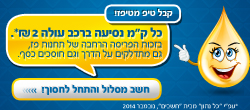
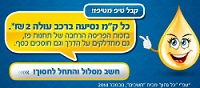
paz home page

diff --git a/paz.css b/paz.css
@@ -36,7 +36,7 @@
 
 .menu1, .menu2, .menu3, .menu4, .menu5,
 .menu6, .menu7 {
-    font-size: 12px;
+    font-size: 16px;
     padding: 8px;
     color: white;
     text-decoration: none;
@@ -95,7 +95,7 @@
      
   #paz {
       position: absolute;
-      top: 32px;
+      top: 40px;
       right: 50px;
   }
   
@@ -138,83 +138,79 @@
     position: absolute;
     border-bottom-right-radius: 25px;
     bottom: 25px;
-    right: 20px;
-    left: 24px;
+    right: 40px;
     background: rgb(126, 122, 122);
     opacity: 0.8;
     width: 220px;
     height: 150px;
-    text-align: right;
+    /*text-align: right;*/
    }
    #upMidlePic > div {
     position: absolute;
     border-bottom-right-radius: 25px;
     bottom: 25px;
-    right: 20px;
-    left: 24px;
+    right: 40px;
     background: rgb(126, 122, 122);
     opacity: 0.8;
     width: 220px;
     height: 150px;
-    text-align: right;
+   /* text-align: right;*/
     
    }
    #upRightPic > div {
     position: absolute;
     border-bottom-right-radius: 25px;
     bottom: 25px;
-    right: 20px;
-    left: 24px;
+    right: 40px;
     background: rgb(126, 122, 122);
     opacity: 0.8;
     width: 220px;
     height: 150px;
-    text-align: right;
+   /* text-align: right;*/
    }
    h4 {
+       color: black;
     font-family:Tahoma, Verdana, sans-serif, bold;
-    font-size: 12px; 
+    font-size: 11px; 
     padding: 10px;
     text-align: right;
     margin: 0 20  ;
-    
+    z-index: 1;
 } 
 
 
-#lowerSection {
-  
-    width: 900px;
-   margin: auto;
-    }
+
 .lowerDis {
-   
+   top: 30px;
     background-image: url("cube_bg.png");
     background-repeat: no-repeat;
      position: relative;
     border-top-right-radius: 25px;
-    height: 180px;
-    object-fit: cover;
+    height: 200px;
+    /*object-fit: cover;*/
 }
 
 #downLeftPic {
     float:left;
     width: 33%;
+    position: relative;
    }
 
 
 #downMidlePic {
     float: left;
     width: 33%;
+    position: relative;
 }
 
 #downRightPic {
     float: left;
     width: 33%;
-   
+    position: relative;
 }
 
 footer {
-    display: inline-block;
+   display: inline-block;
     height: 50px;
     color: white;
     background: rgb(144,144,144);
@@ -225,35 +221,80 @@ footer {
     position: relative
        }
 #downLeft {
+    position: absolute;
+    top: 25;
+    left:5px;
     
-    
-padding-left: 5px;
-padding-bottom: 25px;
-
 }
 
 #downMidle {
-    width: 220px;
-    height: 89px;
-    margin-top: 15px;
-    margin-left: 30px;
-  
+    position: absolute;
+    top: 50px;
+    left:45px;
 }
 #downRight {
-    width: 220px;
-    height: 89px;
-    margin-top: 15px;
-    margin-left: 30px;
+    position: absolute;
+    top: 50px;
+    left:45px;
  }
 .downSecLink {
+    position: absolute;
     color: black;
-    margin-left: 5px;
-    margin-bottom: 0;
+    right: 45px;
+    bottom: 40px;
+}
+#northLink, #centerLink, #southLink {
+    color:black;
+    position: absolute;
+    right: 25px;
+}
+#northLink { top: 50px;}
+#centerLink { top: 75px;}
+#southLink { top: 100px;}
+
+.more1:hover .moreBlue1 {
+    display: block;
+}
+.downSecLink:hover .more1 {
+    display: none;
+}
+/*
+.more1 { 
+     position: absolute; 
+     top: 50px; 
+     right: 225px;}
+.more1 { 
+      position: absolute; 
+      top: 75px; 
+      right: 225px;}
+.more1 { 
+     position: absolute;  
+     top: 100px; 
+     right: 225px;}
+*/
+.moreBlue1{ display: none;}
+
+.more {
+    position: absolute;
+    left: 45px;
+    bottom: 40px;
+    z-index: 1;
+}
+.moreBlue {
+    display: none;
+    position: absolute;
+    left: 45px;
+    bottom: 40px;
+    z-index: 1;
+}
+.more:hover .moreBlue {
+    display: block;
+}
+.downSecLink:hover .more {
+    display: none;
 }
 a {
-    
-   /* margin-right: 15px;*/
-    margin-top: auto;
+          margin-top: auto;
     margin-bottom: auto;
     font-family: Arial, Helvetica, sans-serif; 
     font-size: 12px; 
@@ -270,24 +311,28 @@ a {
     padding: 2px;
     color: white;
 }
-#links {
+.links {
     position: absolute;
-   text-align: center;
-   
-    bottom: 10px;
+    display: block;
+   right: 100px;
+    bottom: 5px;
     width: 900px;
+    z-index: 1;
 }
 
 a:hover {
     color: blue;
 }
 
-#fb {
+/*#fb {
    
     position: absolute;
-    right: 2px;
+    right: 20px;
     bottom: 10px;
-   padding-left: 5px;
+   padding-left: 15px;
+}*/
+#red{
+    color:red;
 }
 
 .clearfix::after {
